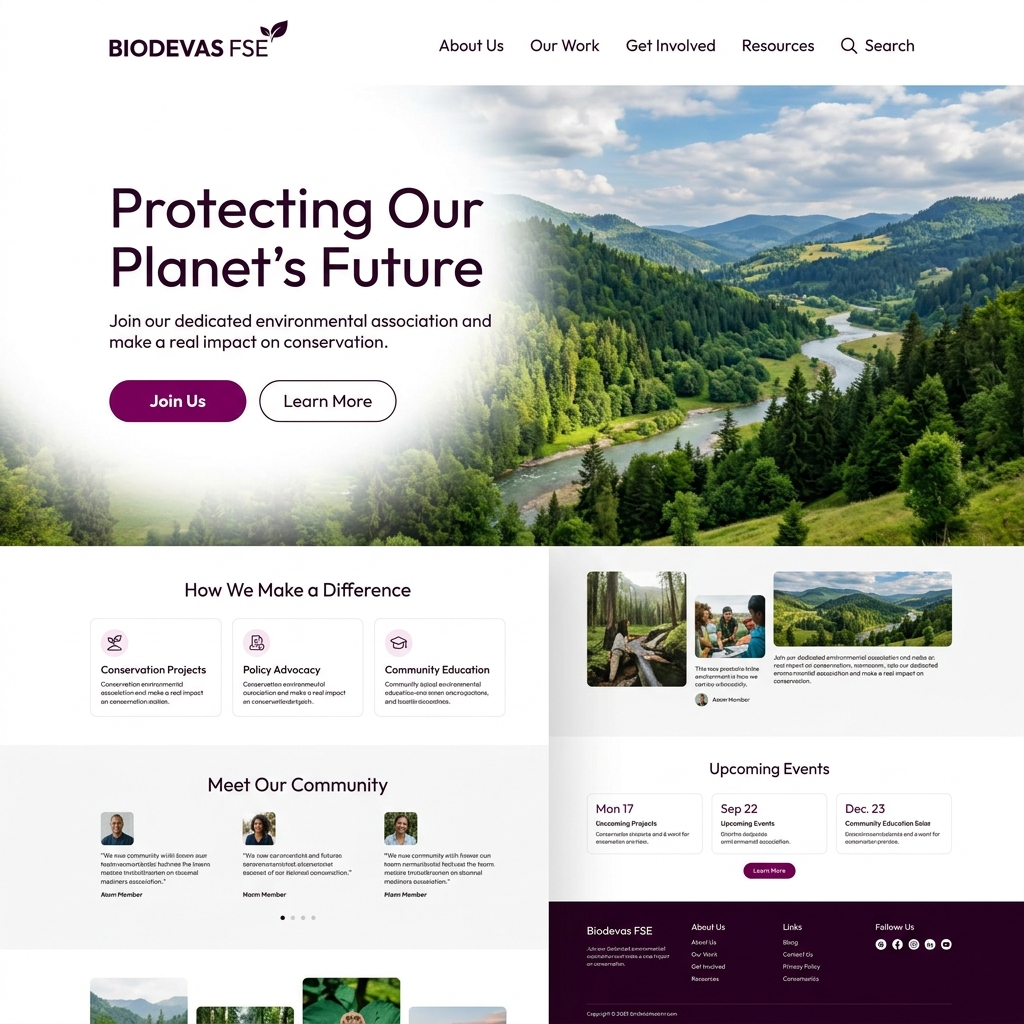
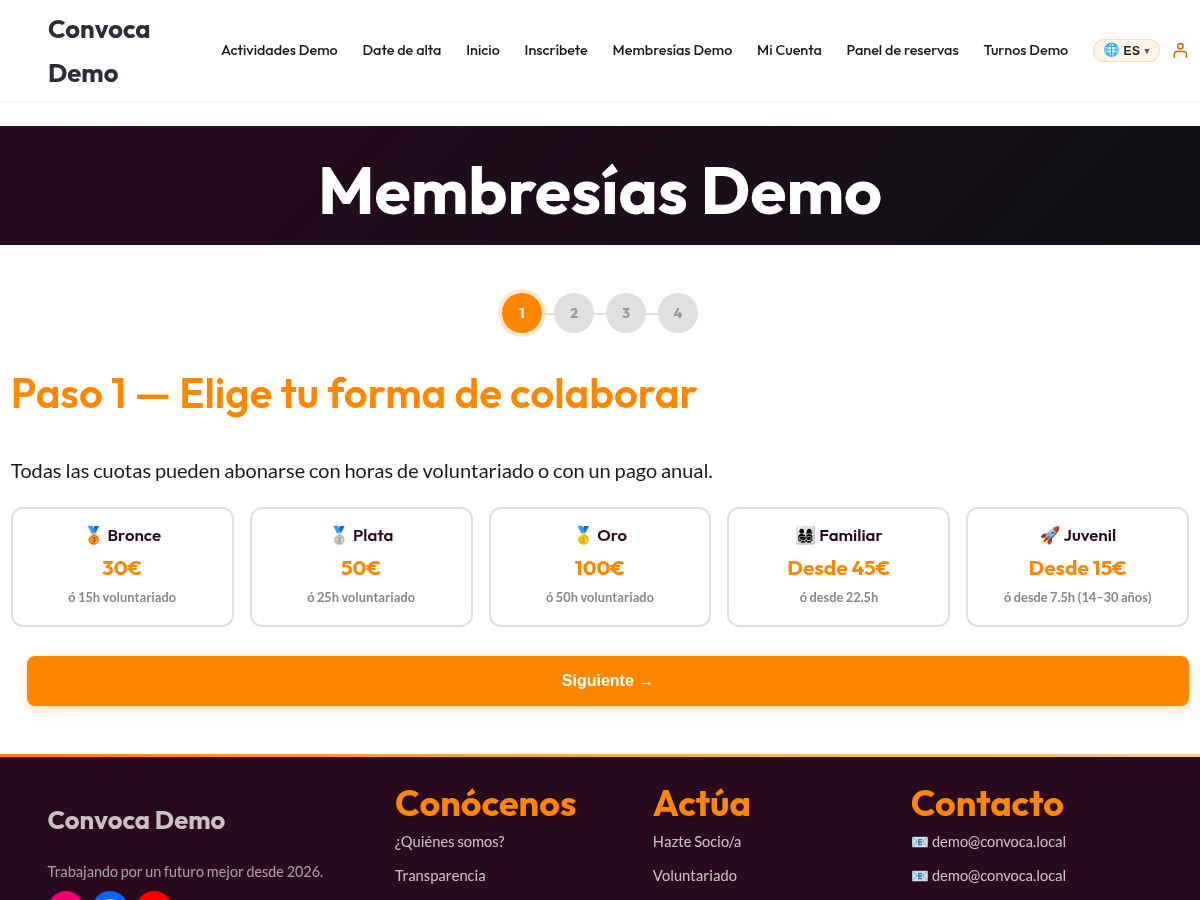
fix(theme): cumplir Theme Check wp.org (QA final)
- Escapar get_template_directory_uri con esc_url en welcome panel (Requerido)
- Eliminar add_shortcode('convoca_dark_mode_toggle') del theme: el toggle
  pasa a bloque wp:html directo en parts/header.html (Requerido: shortcodes
  son territorio de plugins)
- Añadir aviso de copyright GPL en readme.txt y style.css (Requerido)
- Regenerar screenshot.png: 1200x900 4:3 (antes 1024x1024), 108KB vs 630KB
- .distignore ya excluye phpunit.xml/*.md del paquete (Requerido)

Theme Check sobre el paquete limpio: exit 0, sin REQUERIDOS (solo 3 INFO
no bloqueantes: enlace wiki, accesibilidad a revisar en wp.org, textdomain
consistente).

diff --git a/parts/header.html b/parts/header.html
@@ -14,9 +14,12 @@
         <div class="wp-block-group">
             <!-- wp:navigation {"ref":74,"overlayMenu":"mobile","overlayBackgroundColor":"blanco","overlayTextColor":"antracita","layout":{"type":"flex","setCascadingProperties":true}} /-->
 
-            <!-- wp:shortcode -->
-            [convoca_dark_mode_toggle]
-            <!-- /wp:shortcode -->
+            <!-- wp:html -->
+            <button class="dark-mode-toggle" aria-label="Cambiar modo de color" type="button">
+                <svg class="sun" viewBox="0 0 24 24" xmlns="http://www.w3.org/2000/svg"><path d="M12 7c-2.76 0-5 2.24-5 5s2.24 5 5 5 5-2.24 5-5-2.24-5-5-5zM2 13h2c.55 0 1-.45 1-1s-.45-1-1-1H2c-.55 0-1 .45-1 1s.45 1 1 1zm18 0h2c.55 0 1-.45 1-1s-.45-1-1-1h-2c-.55 0-1 .45-1 1s.45 1 1 1zM11 2v2c0 .55.45 1 1 1s1-.45 1-1V2c0-.55-.45-1-1-1s-1 .45-1 1zm0 18v2c0 .55.45 1 1 1s1-.45 1-1v-2c0-.55-.45-1-1-1s-1 .45-1 1zM5.99 4.58a.996.996 0 00-1.41 0 .996.996 0 000 1.41l1.06 1.06c.39.39 1.03.39 1.41 0s.39-1.03 0-1.41L5.99 4.58zm12.37 12.37a.996.996 0 00-1.41 0 .996.996 0 000 1.41l1.06 1.06c.39.39 1.03.39 1.41 0a.996.996 0 000-1.41l-1.06-1.06zm1.06-10.96a.996.996 0 000-1.41.996.996 0 00-1.41 0l-1.06 1.06c-.39.39-.39 1.03 0 1.41s1.03.39 1.41 0l1.06-1.06zM7.05 18.36a.996.996 0 000-1.41.996.996 0 00-1.41 0l-1.06 1.06c-.39.39-.39 1.03 0 1.41s1.03.39 1.41 0l1.06-1.06z"/></svg>
+                <svg class="moon" viewBox="0 0 24 24" xmlns="http://www.w3.org/2000/svg"><path d="M12 3c-4.97 0-9 4.03-9 9s4.03 9 9 9 9-4.03 9-9c0-.46-.04-.92-.1-1.36-.98 1.37-2.58 2.26-4.4 2.26-3.03 0-5.5-2.47-5.5-5.5 0-1.82.89-3.42 2.26-4.4-.44-.06-.9-.1-1.36-.1z"/></svg>
+            </button>
+            <!-- /wp:html -->
 
             <!-- wp:buttons {"className":"header-cta"} -->
             <div class="wp-block-buttons header-cta">

diff --git a/style.css b/style.css
@@ -12,6 +12,9 @@ License:     GPL-2.0-or-later
 License URI: https://www.gnu.org/licenses/gpl-2.0.html
 Text Domain: convoca-theme
 Tags:        full-site-editing, block-patterns, custom-colors, custom-logo, editor-style, translation-ready, accessibility-ready
+
+Convoca Theme is distributed under the terms of the GNU GPL v2 or later.
+Copyright (C) 2026 Jose Carlos Nieto Ramos.
 */
 
 /* =========================================================

diff --git a/functions.php b/functions.php
@@ -323,7 +323,7 @@ function convoca_help_page_html(): void
 		<h1><?php echo esc_html__('Configuración y Ayuda — Theme Convoca', 'convoca-theme'); ?></h1>
 		
 		<div class="welcome-panel" style="padding: 0; margin-top: 20px; overflow: hidden; border-radius: 8px; border: none; background: #000;">
-			<div class="welcome-panel-content" style="padding: 60px 40px; background-image: linear-gradient(rgba(0, 0, 0, 0.4), rgba(0, 0, 0, 0.4)), url('<?php echo get_template_directory_uri(); ?>/assets/images/admin-banner.png'); background-size: cover; background-position: center; color: #fff;">
+			<div class="welcome-panel-content" style="padding: 60px 40px; background-image: linear-gradient(rgba(0, 0, 0, 0.4), rgba(0, 0, 0, 0.4)), url('<?php echo esc_url( get_template_directory_uri() . '/assets/images/admin-banner.png' ); ?>'); background-size: cover; background-position: center; color: #fff;">
 				<h2 style="color: #fff; font-size: 2.4em; margin: 0; font-family: 'Outfit', sans-serif; text-shadow: 0 2px 4px rgba(0,0,0,0.3);"><?php printf(__('Bienvenido a Convoca v%s', 'convoca-theme'), $theme->get('Version')); ?></h2>
 				<p class="about-description" style="color: rgba(255,255,255,0.9); font-size: 1.2em; max-width: 600px; margin-top: 10px; text-shadow: 0 1px 2px rgba(0,0,0,0.3);"><?php echo esc_html__('Este es un theme FSE (Full Site Editing) optimizado para la Asociación Convoca. Aquí encontrarás una guía rápida de uso.', 'convoca-theme'); ?></p>
 			</div>
@@ -447,19 +447,7 @@ function convoca_dark_mode_inline_init(): void {
 add_action('wp_head', 'convoca_dark_mode_inline_init', 1);
 
 /**
- * 10. Shortcode for Dark Mode Toggle
- * Uso: [convoca_dark_mode_toggle]
- */
-add_shortcode('convoca_dark_mode_toggle', function() {
-	return '
-	<button class="dark-mode-toggle" aria-label="Cambiar modo de color" type="button">
-		<svg class="sun" viewBox="0 0 24 24" xmlns="http://www.w3.org/2000/svg"><path d="M12 7c-2.76 0-5 2.24-5 5s2.24 5 5 5 5-2.24 5-5-2.24-5-5-5zM2 13h2c.55 0 1-.45 1-1s-.45-1-1-1H2c-.55 0-1 .45-1 1s.45 1 1 1zm18 0h2c.55 0 1-.45 1-1s-.45-1-1-1h-2c-.55 0-1 .45-1 1s.45 1 1 1zM11 2v2c0 .55.45 1 1 1s1-.45 1-1V2c0-.55-.45-1-1-1s-1 .45-1 1zm0 18v2c0 .55.45 1 1 1s1-.45 1-1v-2c0-.55-.45-1-1-1s-1 .45-1 1zM5.99 4.58a.996.996 0 00-1.41 0 .996.996 0 000 1.41l1.06 1.06c.39.39 1.03.39 1.41 0s.39-1.03 0-1.41L5.99 4.58zm12.37 12.37a.996.996 0 00-1.41 0 .996.996 0 000 1.41l1.06 1.06c.39.39 1.03.39 1.41 0a.996.996 0 000-1.41l-1.06-1.06zm1.06-10.96a.996.996 0 000-1.41.996.996 0 00-1.41 0l-1.06 1.06c-.39.39-.39 1.03 0 1.41s1.03.39 1.41 0l1.06-1.06zM7.05 18.36a.996.996 0 000-1.41.996.996 0 00-1.41 0l-1.06 1.06c-.39.39-.39 1.03 0 1.41s1.03.39 1.41 0l1.06-1.06z"/></svg>
-		<svg class="moon" viewBox="0 0 24 24" xmlns="http://www.w3.org/2000/svg"><path d="M12 3c-4.97 0-9 4.03-9 9s4.03 9 9 9 9-4.03 9-9c0-.46-.04-.92-.1-1.36-.98 1.37-2.58 2.26-4.4 2.26-3.03 0-5.5-2.47-5.5-5.5 0-1.82.89-3.42 2.26-4.4-.44-.06-.9-.1-1.36-.1z"/></svg>
-	</button>';
-});
-
-/**
- * 12. SEO: JSON-LD Structured Data for Activities (Event Schema)
+ * 10. SEO: JSON-LD Structured Data for Activities (Event Schema)
  */
 
 // ─── Process shortcodes in rendered blocks (FSE compatibility) ───
